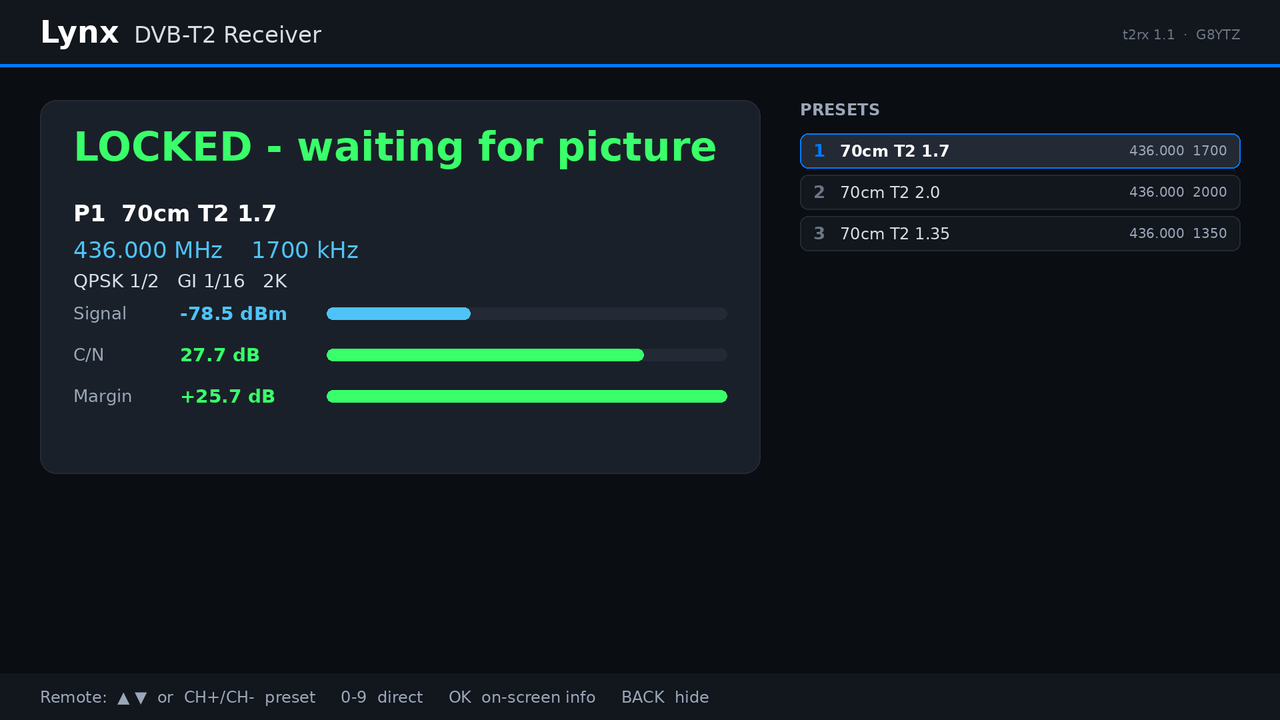
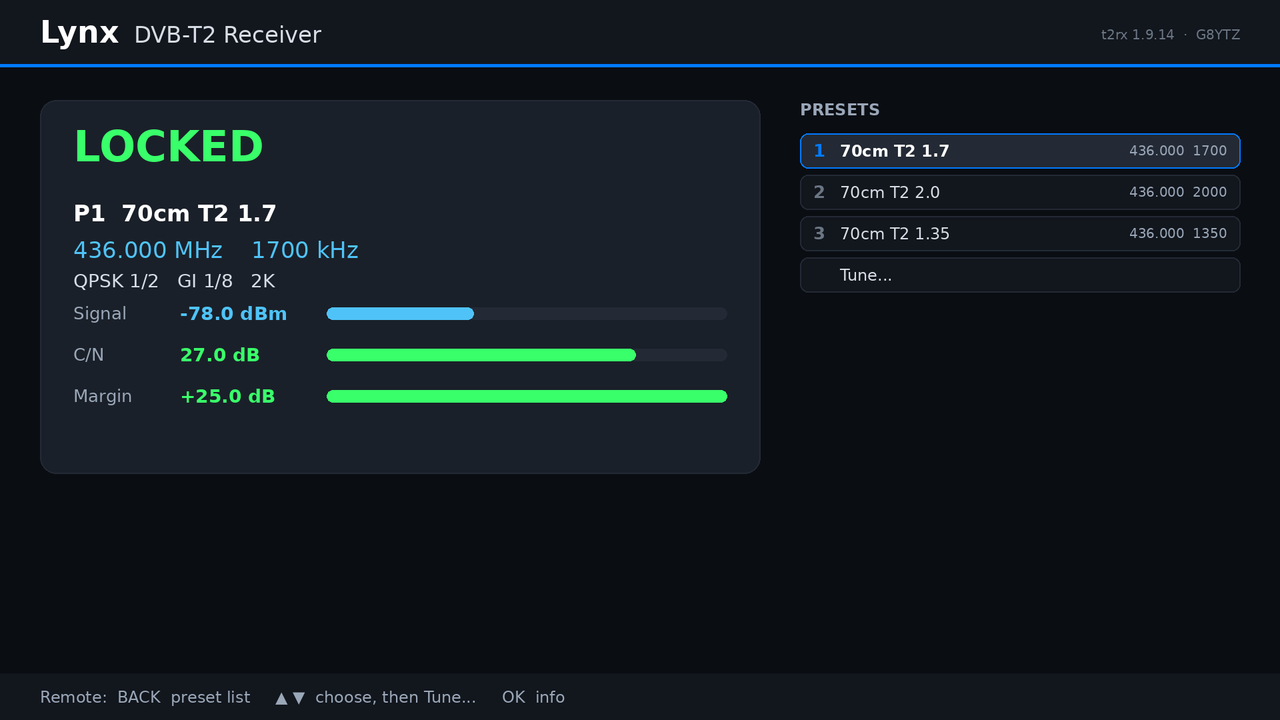
1.9.14: BACK brings up the preset list over the picture

diff --git a/src/t2rxd.py b/src/t2rxd.py
@@ -41,7 +41,7 @@ try:
 except (OSError, ImportError):          # no libdrm: fall back to blending
     osdplane = None
 
-VERSION = "t2rx 1.9.13"
+VERSION = "t2rx 1.9.14"
 # Test hooks: T2RX_TUNER (tuner program), T2RX_DECODER, T2RX_VSINK, T2RX_ASINK, T2RX_ROOT
 ENV = os.environ.get
 CONF = "/etc/t2rx/t2rx.conf"
@@ -185,6 +185,7 @@ class Receiver:
         self.over_t = None
         self.tune = None             # on-screen tuning entry, see key()
         self.tune_t = 0.0
+        self.list_until = 0.0        # show the preset list over the picture until this time
         self.update_tag = None       # newer release found, shown on the status page
         self.updating = False
         self.update_stage = ""
@@ -654,8 +655,12 @@ class Receiver:
                 continue
             mode, st, info, tune = job
             s = self.plane.w / 800.0
-            img = osd.render_tune(self.plane.w, tune, self.presets) if tune is not None \
-                else osd.render_osd(self.plane.w, st, info, mode)
+            if tune is not None:
+                img = osd.render_tune(self.plane.w, tune, self.presets)
+            elif mode == "list":
+                img = osd.render_list(self.plane.w, self.presets, self.preset)
+            else:
+                img = osd.render_osd(self.plane.w, st, info, mode)
             if not self.video_on or self.last_osd == "off":
                 continue                              # hidden while we were drawing
             if self.plane.show(img, 24 * s, 20 * s) != 0:
@@ -691,18 +696,22 @@ class Receiver:
                     self.osd_el.set_property("alpha", 0.0)
                 self.last_osd = "off"
             return
-        key = self._osd_key(mode) if self.tune is None else ("tune", str(self.tune))
-        interval = float(self.cfg.get("osd_interval", "2"))
+        key = ("list", str(self.preset)) if mode == "list" else (
+            self._osd_key(mode) if self.tune is None else ("tune", str(self.tune)))
+        interval = 0.2 if mode == "list" else float(self.cfg.get("osd_interval", "2"))
         if not force and (key == self.last_osd or now - getattr(self, "_osd_t", 0) < interval):
             return                                   # unchanged, or redrawn too recently
         self.last_osd = key
         self._osd_t = now
+        if time.monotonic() < self.list_until and self.tune is None:
+            mode = "list"
         if self.plane is not None:
             # drawn on a low-priority thread so a redraw can never hold up the audio
             self._osd_job = (mode, dict(self.st), dict(self.info), self.tune and dict(self.tune))
             self._osd_event.set()
             return
-        img = osd.render_osd(self.video_w, self.st, self.info, mode)
+        img = (osd.render_list(self.video_w, self.presets, self.preset) if mode == "list"
+               else osd.render_osd(self.video_w, self.st, self.info, mode))
         data = GLib.Bytes.new(img.tobytes())
         pb = GdkPixbuf.Pixbuf.new_from_bytes(data, GdkPixbuf.Colorspace.RGB, True, 8,
                                              img.width, img.height, img.width * 4)
@@ -879,6 +888,10 @@ class Receiver:
         # Up/Left move up the on-screen list (to a lower preset number), Down/Right
         # move down it. CH+/CH- follow the numbers, as on a TV.
         here = keys.index(self.preset) if self.preset in keys else 0
+        if name in ("down", "right", "ch_up", "up", "left", "ch_down"):
+            # the full preset list is only on the status page, so put a compact
+            # one over the picture while you are moving through it
+            self.list_until = time.monotonic() + 8
         if name in ("down", "right", "ch_up"):
             self.select(keys[(here + 1) % len(keys)])
         elif name in ("up", "left", "ch_down"):
@@ -893,7 +906,14 @@ class Receiver:
             else:
                 self.cycle_osd()
         elif name == "back":
-            self.osd_mode = "off"
+            # BACK brings up the preset list, the way it goes back to the channel
+            # list on a television - and Tune... sits at the end of it. Pressing it
+            # again, with the list already up, hides the display.
+            if time.monotonic() < self.list_until:
+                self.list_until = 0
+                self.osd_mode = "off"
+            else:
+                self.list_until = time.monotonic() + 8
             self.update_osd(force=True)
         return False
 
@@ -910,6 +930,7 @@ class Receiver:
 
     def select(self, n):
         if n == "tune":
+            self.list_until = 0
             self.open_tune()
             return
         if n == self.preset and self.tuner:

diff --git a/src/osd.py b/src/osd.py
@@ -181,6 +181,40 @@ def _render_mini(s, st, info):
     return img
 
 
+# ------------------------------------------------------------ preset list
+def render_list(width, presets, cur, title="Presets"):
+    """Compact channel list, drawn over the picture while you step through the
+    presets - the full list only exists on the status page, so without this
+    there is no way to see where you are, or to reach 'Tune...' at the end."""
+    s = max(0.5, width / 800.0)
+    rows = list(presets) + [("tune", {"name": "Tune...", "freq": None, "bw": ""})]
+    rows = rows[:10]
+    rh = 30 * s
+    W, H = int(330 * s), int(rh * len(rows) + 52 * s)
+    img = Image.new("RGBA", (W, H), (0, 0, 0, 0))
+    d = ImageDraw.Draw(img)
+    d.rounded_rectangle([0, 0, W - 1, H - 1], radius=12 * s, fill=BG_PANEL + (225,),
+                        outline=BG_HI + (255,), width=max(1, int(s)))
+    d.rounded_rectangle([0, 0, 5 * s, H - 1], radius=3 * s, fill=ACCENT + (255,))
+    d.text((16 * s, 12 * s), title.upper(), font=font(12 * s, bold=True), fill=MUTED)
+    d.text((W - 16 * s, 12 * s), "\u25b2\u25bc choose   OK watch", font=font(11 * s), fill=FAINT, anchor="rt")
+    y = 40 * s
+    for key, p in rows:
+        on = (str(key) == str(cur))
+        if on:
+            d.rounded_rectangle([12 * s, y - 2 * s, W - 12 * s, y + rh - 6 * s], radius=6 * s,
+                                fill=BG_HI, outline=ACCENT, width=max(1, int(1.5 * s)))
+        d.text((26 * s, y + (rh - 8 * s) / 2), "" if key == "tune" else str(key),
+               font=font(15 * s, bold=True), fill=ACCENT if on else FAINT, anchor="lm")
+        d.text((52 * s, y + (rh - 8 * s) / 2), p.get("name", ""), font=font(14 * s, bold=on),
+               fill=TXT if on else TXT2, anchor="lm")
+        if p.get("freq") is not None:
+            d.text((W - 22 * s, y + (rh - 8 * s) / 2), "%.3f  %s" % (p["freq"], p["bw"]),
+                   font=font(12 * s), fill=MUTED, anchor="rm")
+        y += rh
+    return img
+
+
 # ------------------------------------------------------------- tune panel
 def render_tune(width, t, presets=()):
     """The tuning wizard. t: digits, pos, stage (freq|bw|save), bw, slot, shown.
@@ -366,6 +400,6 @@ def render_idle(W, H, st, info, presets, message=None, version=""):
     # footer
     d.rectangle([0, H - 70 * s, W, H], fill=BG_PANEL)
     d.text((60 * s, H - 35 * s),
-           "Remote:  \u25b2 \u25bc  preset, then Tune...     OK  info     BACK  hide",
+           "Remote:  BACK  preset list     \u25b2 \u25bc  choose, then Tune...     OK  info",
            font=font(24 * s), fill=MUTED, anchor="lm")
     return img

diff --git a/README.md b/README.md
@@ -29,7 +29,8 @@ on digital ATV for very little.
   guard interval, FFT), C/N with margin, signal level, TS rate, video and audio.
   Full panel for 15 s on lock or preset change, then a small callsign badge.
 * **Your TV's remote over HDMI-CEC** - up/down the preset list, 0-9 direct,
-  OK for the OSD, and **Tune...** after the last preset: set the frequency and
+  BACK for the preset list over the picture, OK for the OSD, and **Tune...**
+  after the last preset: set the frequency and
   bandwidth with the arrows alone (no keypad needed - most TV remotes don't
   send one over CEC) and store it in a preset. No keyboard, no SSH.
 * **HDMI identification** - appears on the TV as *Lynx DVB-T2 Rx* and switches

diff --git a/CHANGELOG.md b/CHANGELOG.md
@@ -1,5 +1,13 @@
 # Changelog
 
+## 1.9.14
+* **You can now retune while watching.** The preset list only existed on the
+  status page, so with a picture on screen there was no way to see where you
+  were in it or to reach "Tune...". BACK now brings up a compact preset list over
+  the picture, exactly as it goes back to the channel list on a television;
+  Up/Down move through it, Tune... sits at the end, and BACK again hides it.
+  Stepping presets with the arrows brings the list up too.
+
 ## 1.9.13
 * The display decides the resolution. Any forced HDMI mode is removed at install
   (including the ones 1.9.11 and 1.9.12 could add), so the Pi negotiates with the

diff --git a/docs/INSTALL.md b/docs/INSTALL.md
@@ -109,6 +109,7 @@ From SSH:
 | Up / Down | move up / down the on-screen preset list |
 | CH+ / CH- | next / previous preset by number |
 | 0-9 | preset by number |
+| BACK | bring up the preset list over the picture (again to hide it) |
 | Down past the last preset | **Tune...** - tune to a new frequency and store it |
 | 0, Red or Menu | the same panel, on remotes that have those keys |
 | OK or Info | OSD: full -> badge -> off (installs a waiting update when there is no picture) |
